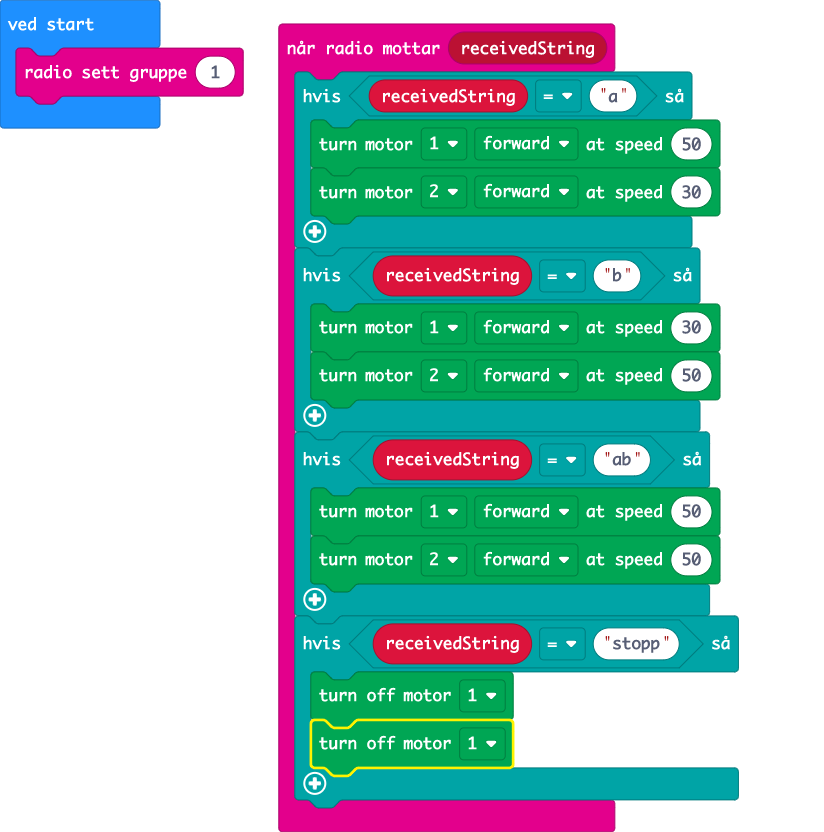
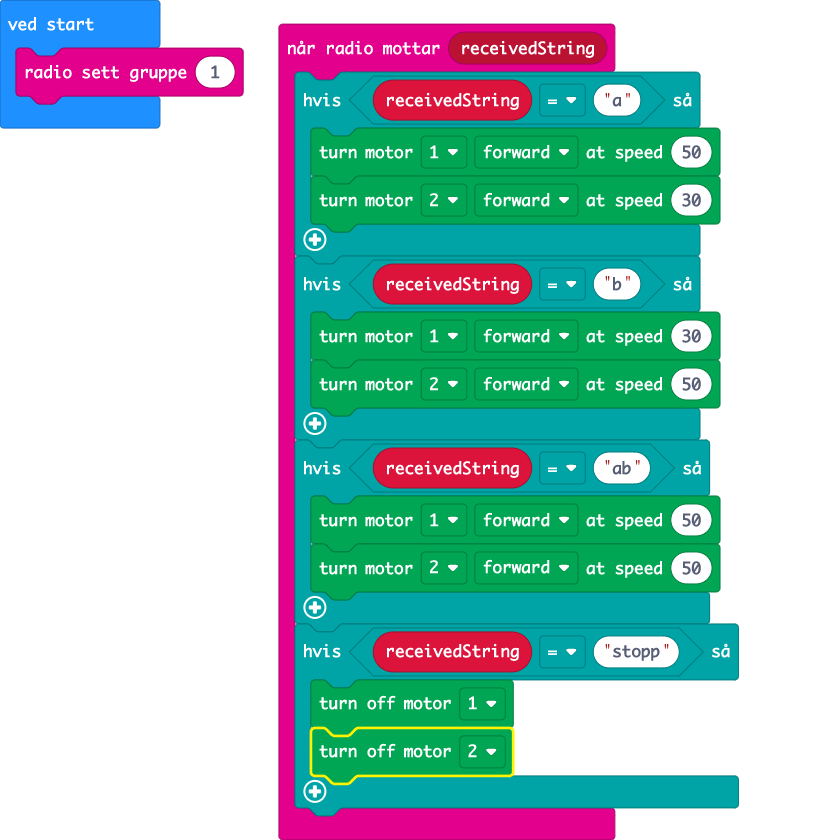
Oppdater main.blocks, main.ts

diff --git a/main.ts b/main.ts
@@ -13,7 +13,7 @@ radio.onReceivedString(function (receivedString) {
     }
     if (receivedString == "stopp") {
         kitronik_klip_motor.motorOff(kitronik_klip_motor.Motors.Motor1)
-        kitronik_klip_motor.motorOff(kitronik_klip_motor.Motors.Motor1)
+        kitronik_klip_motor.motorOff(kitronik_klip_motor.Motors.Motor2)
     }
 })
 radio.setGroup(1)
